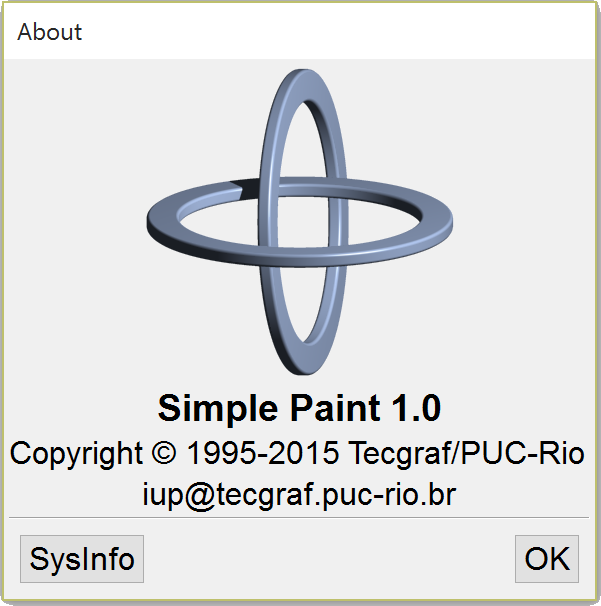
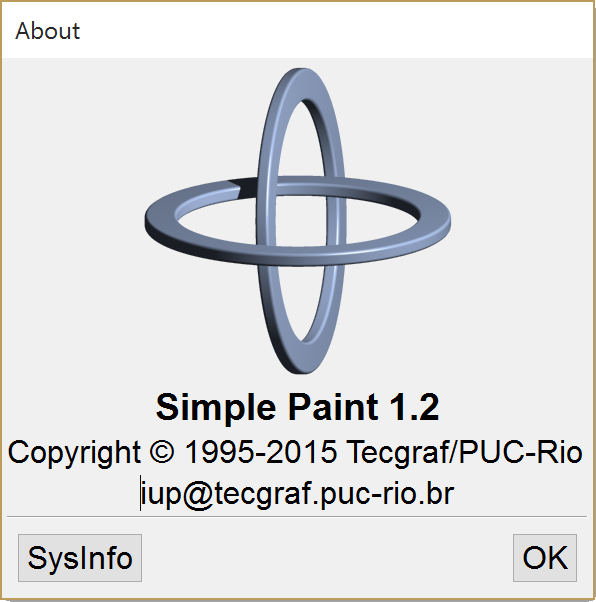
git-svn-id: svn://svn.code.sf.net/p/iup/iup/trunk/iup@3255 2f08bc20-984a-4df8-b195-9b5d5d477537

diff --git a/html/en/tutorial/tutorial5.html b/html/en/tutorial/tutorial5.html
@@ -296,11 +296,31 @@ located so we can concatenate with the logo file name.</p>
 
 <p class="example_image"><img alt="" src="example5_4a.png"></p>
 
-<p>XXXX</p>
+<p>So now that we have a handsome logo, why not to improve our About dialog too? 
+The About dialog also has an important job to show the application version. 
+Until now we didn't have a version number, but our <strong>SimplePaint</strong> 
+is getting more complex every day, so we must be able to know which version we 
+are running. If we count from the start, in chapter 4 we should have reached 
+version 1.0. In chapter 5 we moved to C++ but didn't actually added new 
+features, so it was version 1.1. So for our splash screen commemorative edition 
+we will simply define it as version 1.2.</p>
+<p>We also added some company information and a contact e-mail. In the 
+screenshot bellow the sharp eye will notice a caret in front of the e-mail text. 
+That's because it is not an <strong>IupLabel</strong>. It is an <strong>IupText</strong> 
+without borders and with the same background of the dialog. We use it instead of 
+a label so the user can select the text and copy to the clipboard to paste it 
+somewhere else. Another option would be to use the <strong>IupLink</strong> 
+element with the text &quot;<a href="mailto:iup@tecgraf.puc-rio.br">mailto:iup@tecgraf.puc-rio.br</a>&quot;, 
+this will invoke the system e-mail application when clicked.</p>
+<p>Finally there is also a button for System Information that shows a 
+pre-defined dialog called <strong>IupGetText</strong> with textual information 
+about the current system that can also be copied to the clipboard for use in 
+error report for instance. Notice that all the system information were obtained 
+from IUP global attributes.</p>
 
 <p class="example_image"><img alt="" src="example5_4b.png"></p>
 
-<p>XXXX</p>
+<p>Here is a sample of the System Information text:</p>
 
 <pre>-------  System Information  -------
 
